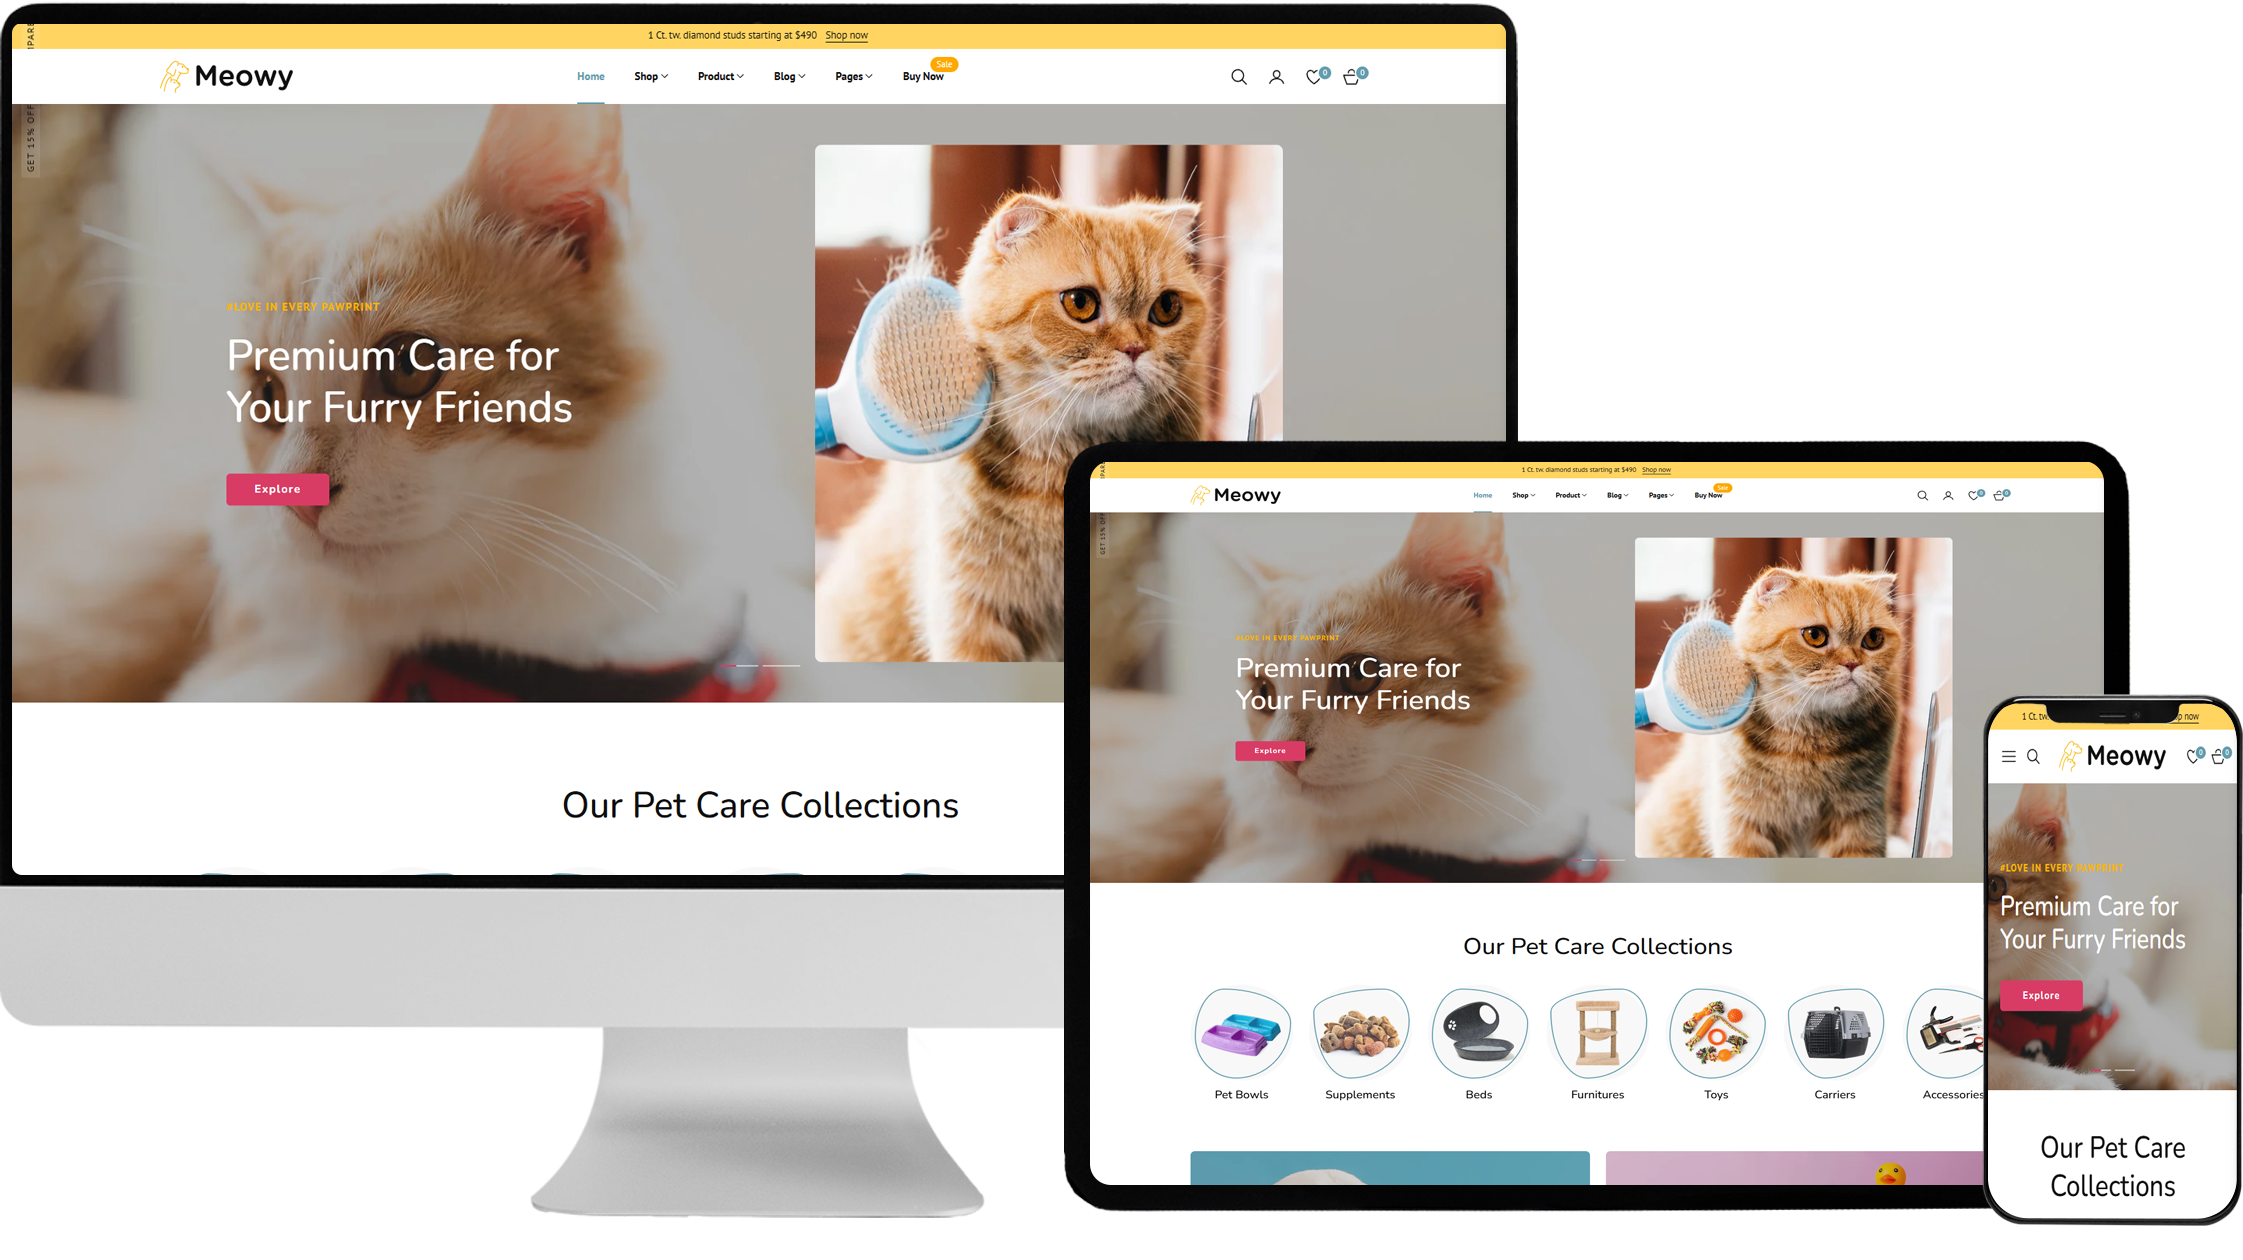
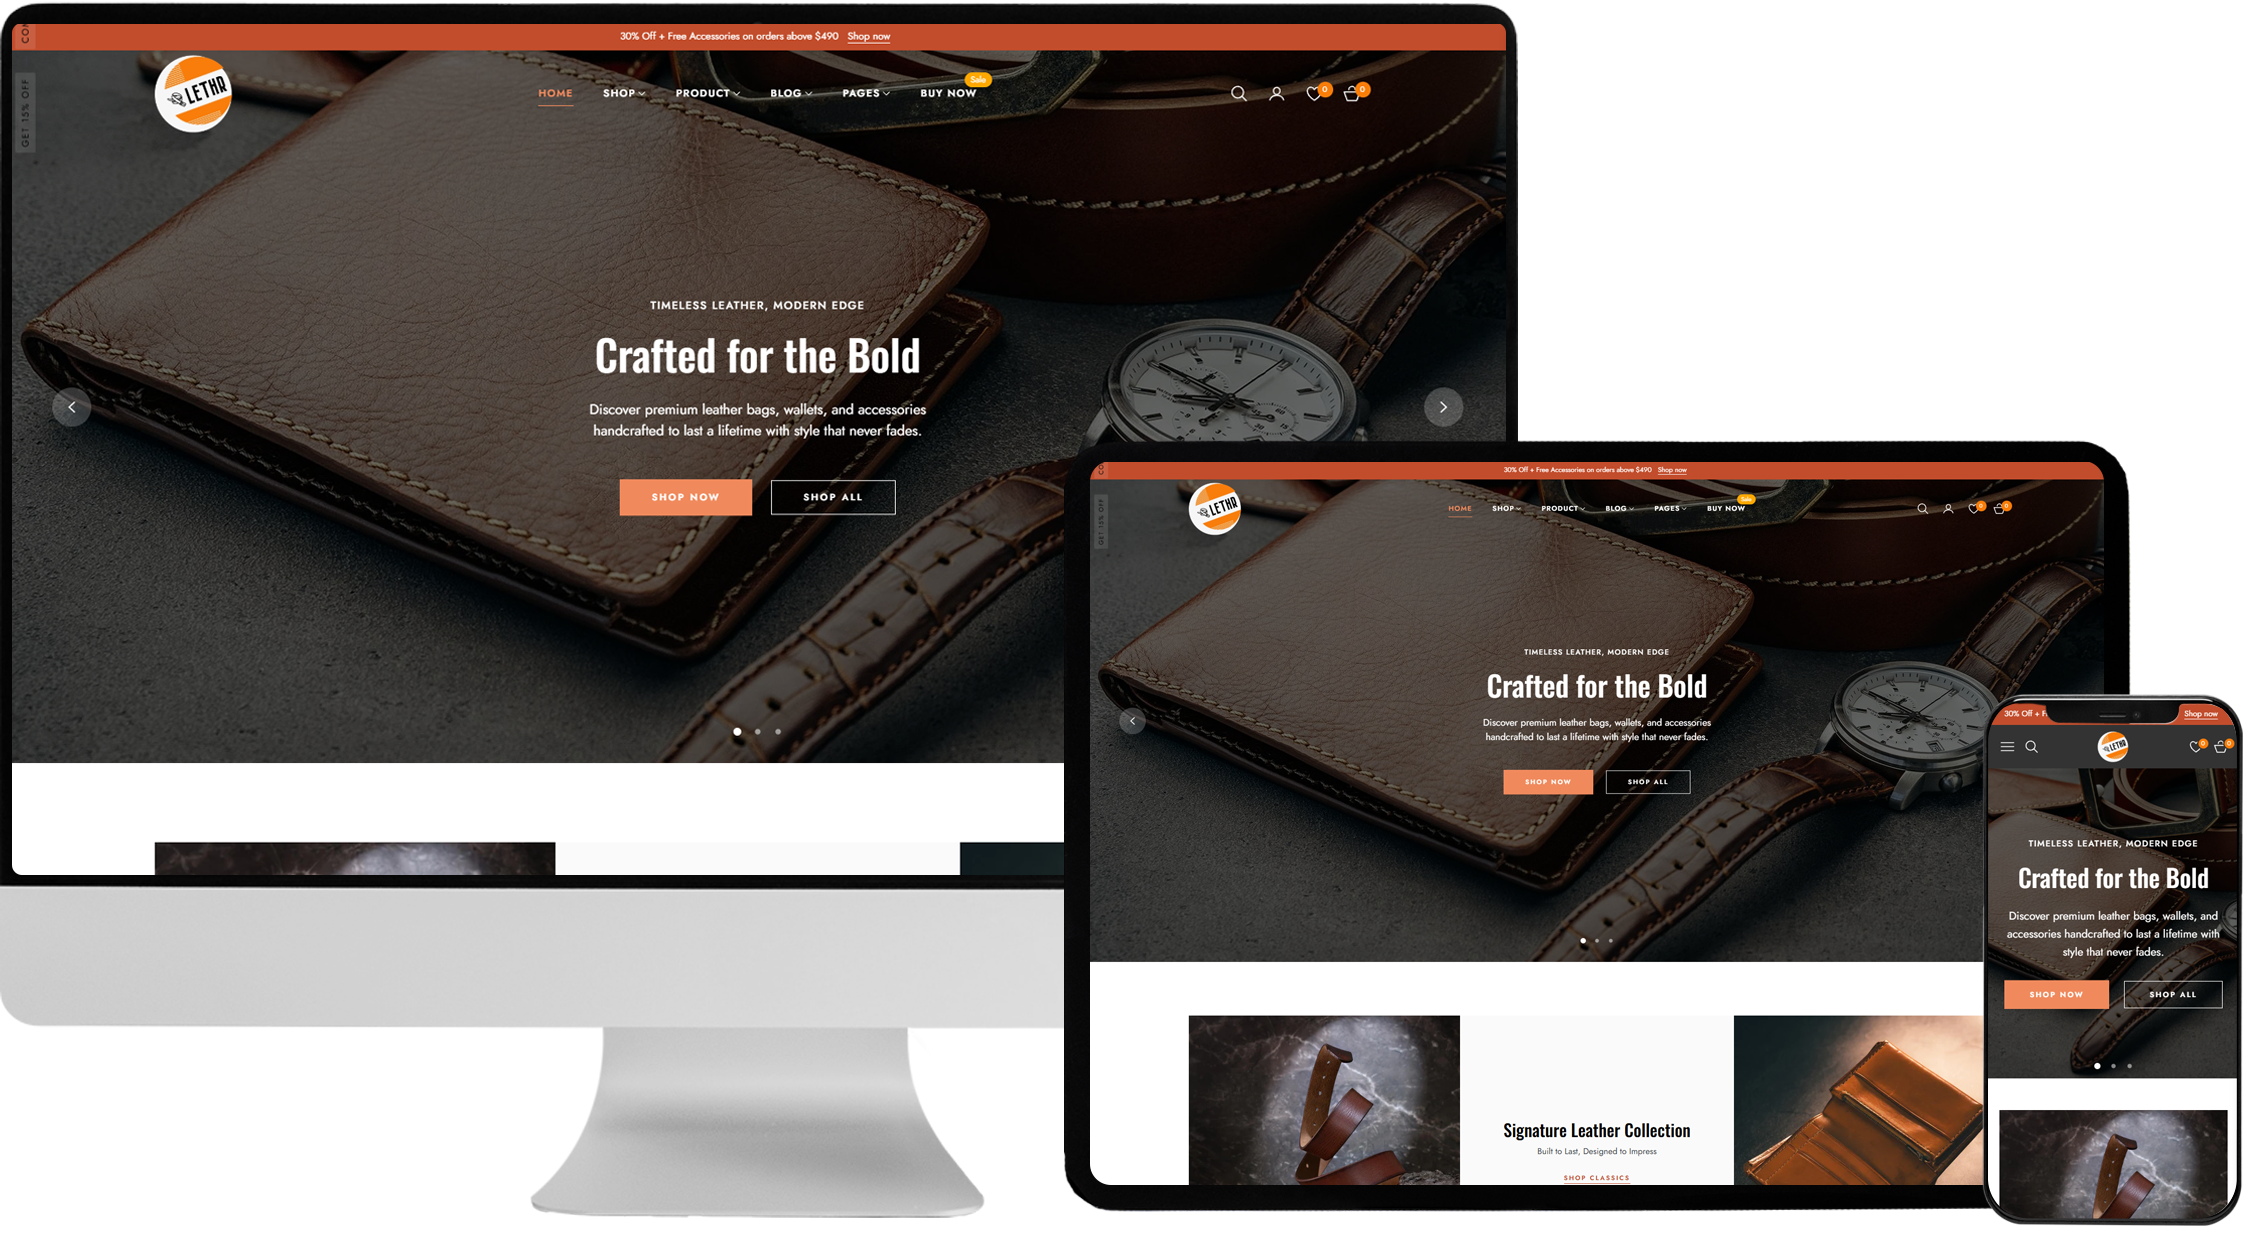
S
S

diff --git a/index.html b/index.html
@@ -8,7 +8,7 @@
     <meta http-equiv="X-UA-Compatible" content="IE=edge">
     <meta name="viewport" content="width=device-width, initial-scale=1">
     <!-- title -->
-    <title>Meowy - Pet Shop & Pet Accessories Shopify 2.0 Theme</title>
+    <title>Lethr - Handcrafted Leather Shopify 2.0 Theme</title>
     <meta name="description" content="A best stylish, creative, modern responsive theme for different eCommerce business or industries." />
     <meta name="keywords" content="organic food theme, shopify, eCommerce shopify theme, responsive, furniture wood, fashion, furniture, mobile, watches, electronics, computers accessories, toys, jewellery, restaurant accessories" />
     <meta name="author" content="qodex">
@@ -53,7 +53,7 @@
                             <div class="collapse navbar-collapse" id="navbar">
                                 <ul class="nav">
                                     <li class="land-link">
-                                        <form method="post" action="https://qx-meowy.myshopify.com/password" target="_blank" id="login_form" accept-charset="UTF-8" class="storefront-password-form dt-custom-button">
+                                        <form method="post" action="https://qx-lethr.myshopify.com/password" target="_blank" id="login_form" accept-charset="UTF-8" class="storefront-password-form dt-custom-button">
                                             <input type="hidden" name="form_type" value="storefront_password">
                                             <input type="hidden" name="utf8" value="✓">
                                             <div class="input-group password__input-group">
@@ -63,7 +63,7 @@
                                         </form>
                                     </li>
                                     <li class="land-link">
-                                        <form method="post" action="https://qx-meowy.myshopify.com/password" target="_blank" id="login_form" accept-charset="UTF-8" class="storefront-password-form dt-custom-button">
+                                        <form method="post" action="https://qx-lethr.myshopify.com/password" target="_blank" id="login_form" accept-charset="UTF-8" class="storefront-password-form dt-custom-button">
                                             <input type="hidden" name="form_type" value="storefront_password">
                                             <input type="hidden" name="utf8" value="✓">
                                             <div class="input-group password__input-group">
@@ -82,7 +82,7 @@
                             </div>
                         </nav>
                         <div class="purchase-now-bottom">
-                            <a href="https://1.envato.market/meowy" class="btn btn-style1" target="blank">Purchase Meowy</a>
+                            <a href="https://themeforest.net/user/qodex" class="btn btn-style1" target="blank">Purchase Lethr</a>
                         </div>
                     </div>
                 </div>
@@ -103,13 +103,13 @@
                     <div class="landing-themebuy">
                         <div class="section-title">
                             <h2 style="margin-bottom: 20px; font-size: 38px;">
-                                <span style="line-height: 1.2em;">Meowy - Pet Shop & Pet Accessories<br> Shopify 2.0 Theme</span>
+                                <span style="line-height: 1.2em;">Lethr - Handcrafted Leather <br>Shopify 2.0 Theme</span>
                                 <span>Shop Password : <i>1</i></span>
                             </h2>
                         </div>
                         <div class="buy-button" style="text-align: center;">
                             <a href="#" style="margin: 0 10px;">
-                                <form method="post" action="https://qx-meowy.myshopify.com/password" target="_blank" id="login_form" accept-charset="UTF-8" class="storefront-password-form dt-custom-button">
+                                <form method="post" action="https://qx-lethr.myshopify.com/password" target="_blank" id="login_form" accept-charset="UTF-8" class="storefront-password-form dt-custom-button">
                                     <input type="hidden" name="form_type" value="storefront_password">
                                     <input type="hidden" name="utf8" value="✓">
                                     <div class="input-group password__input-group">
@@ -118,7 +118,7 @@
                                     </div>
                                 </form>
                             </a>
-                            <a href="https://1.envato.market/meowy" class="btn btn-style1" target="_blank" style="margin: 0 10px;">Purchase theme</a>
+                            <a href="https://1.envato.market/Lethr" class="btn btn-style1" target="_blank" style="margin: 0 10px;">Purchase theme</a>
                         </div>
                         <!-- buy button end -->
                     </div>
